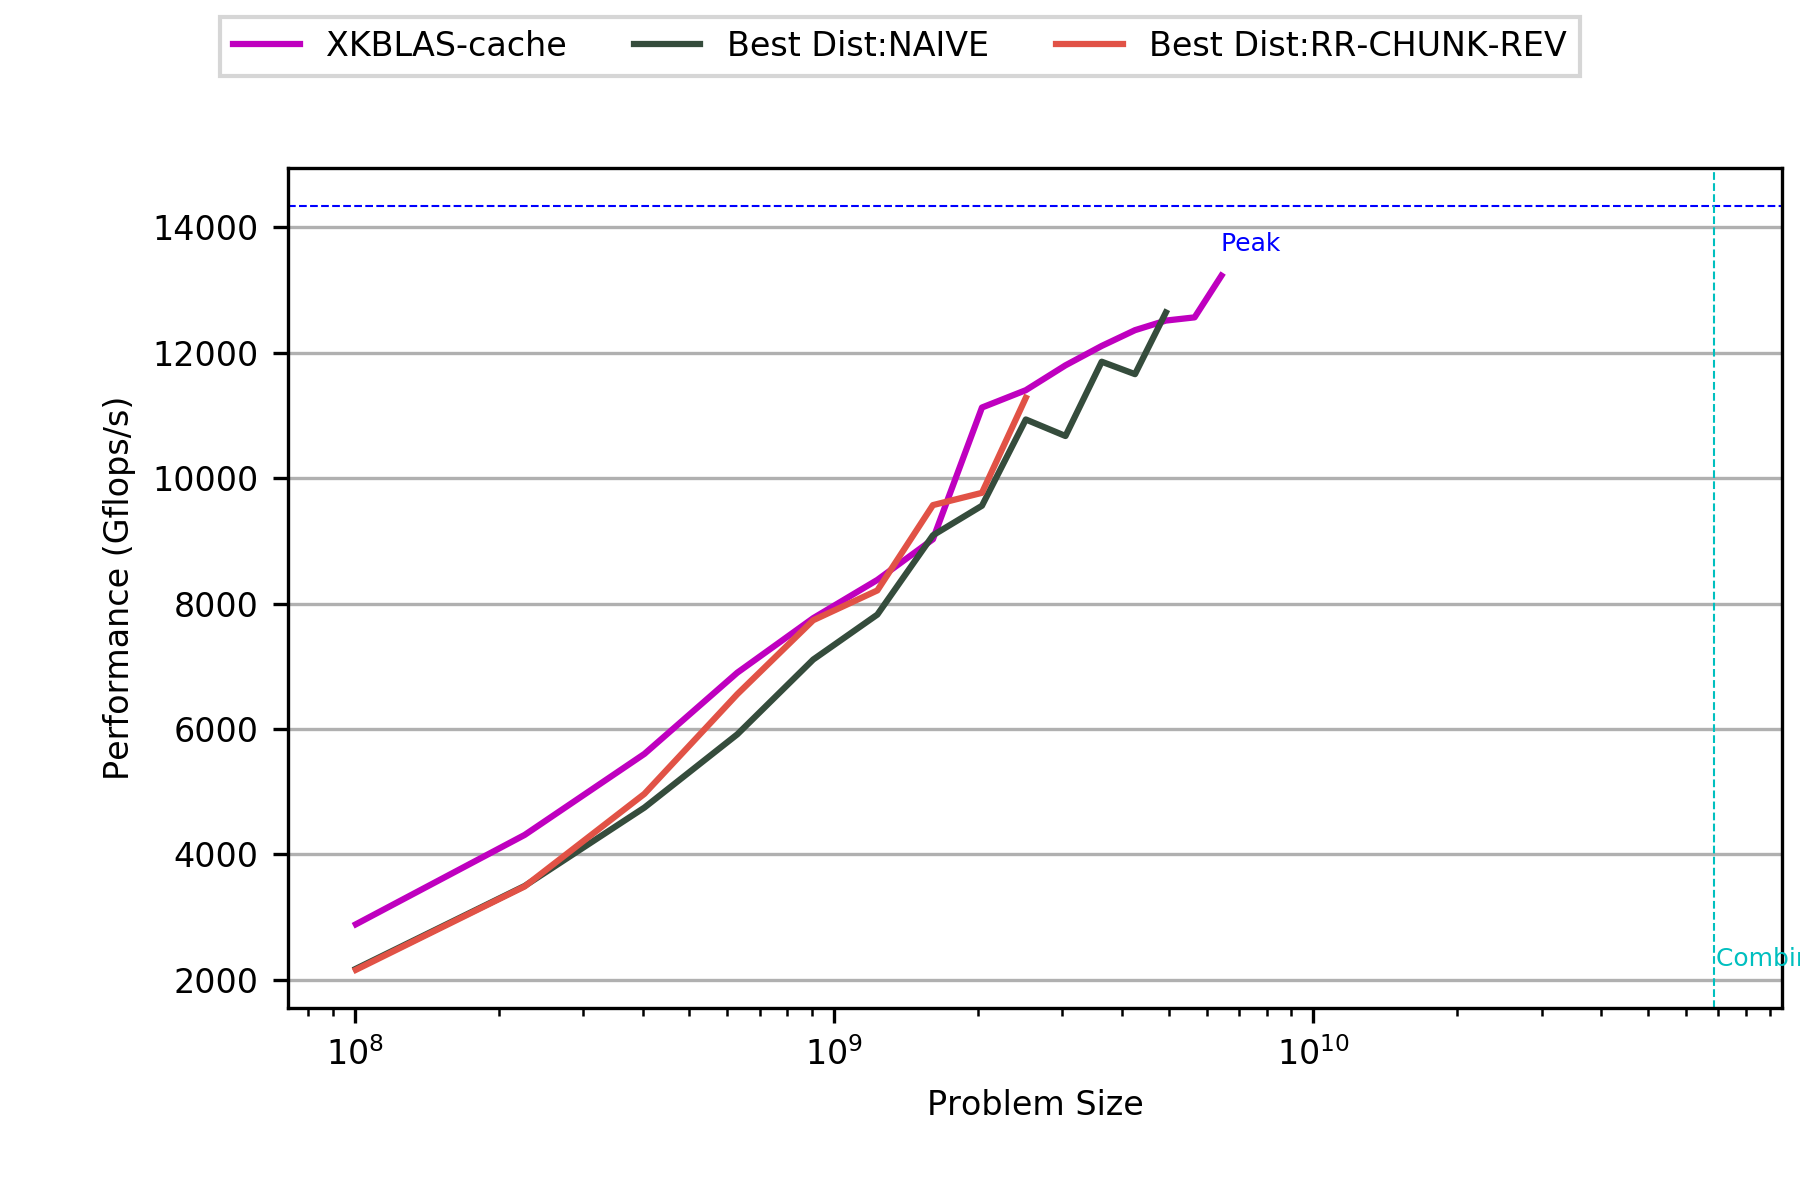
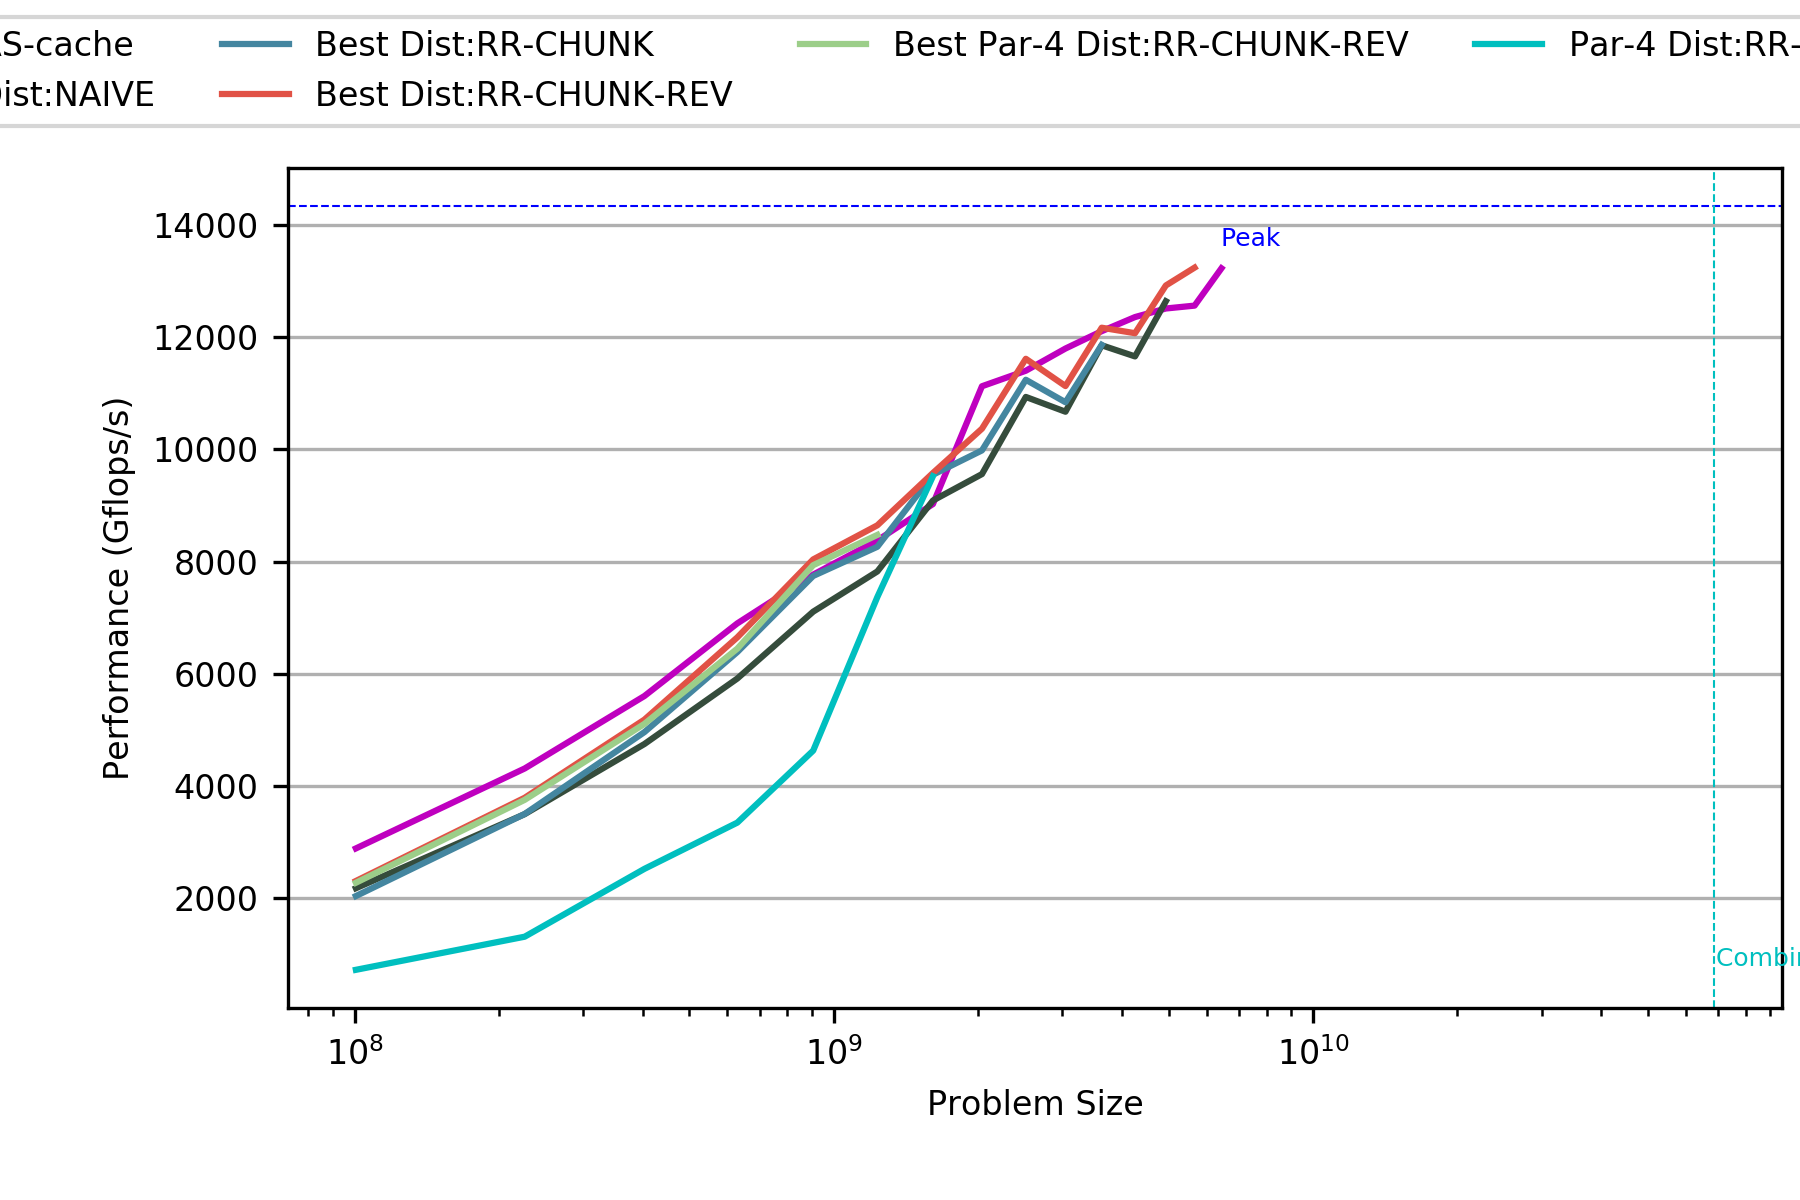
SPLIT-CHUNKS-ROBIN-REVERSE now reverses chunk of even devices.

diff --git a/Autotuning_runtime_experimental/src/Distributions.cpp b/Autotuning_runtime_experimental/src/Distributions.cpp
@@ -238,10 +238,12 @@ void CoCoDistributeSubkernelsRoundRobinChunkReverse(CoControl_p autotune_vals,
 #else
       error("CoCoDistributeSubkernelsRoundRobinChunkReverse: not implemented for undefined MULTIDEVICE_REDUCTION_ENABLE\n");
 #endif
-  int total_sk_ctr = 0;
-  short dev_sk_ctr_list[autotune_vals->dev_num] = {0};
+  int total_sk_ctr = 0, total_sk_prev = 0;
+  int dev_sk_ctr_list[autotune_vals->dev_num] = {0};
   while(total_sk_ctr<Subkernel_num){
+
     for(int devidx = 0; devidx < autotune_vals->dev_num; devidx++){
+      total_sk_prev = total_sk_ctr;
       if(total_sk_ctr == Subkernel_num) break;
       else if(dev_sk_ctr_list[devidx] == autotune_vals->Subkernels_per_dev[devidx]) continue;
       else{
@@ -258,10 +260,23 @@ void CoCoDistributeSubkernelsRoundRobinChunkReverse(CoControl_p autotune_vals,
           total_sk_ctr++;
         }
       }
+      if (devidx%2 == 0){
+        for(int local_ctr = dev_sk_ctr_list[devidx] - total_sk_ctr + total_sk_prev; local_ctr < dev_sk_ctr_list[devidx]; local_ctr++){
+          if (local_ctr < dev_sk_ctr_list[devidx] - local_ctr - 1){
+            int temp_sk_id = autotune_vals->Subkernel_dev_id_list[devidx][local_ctr];
+            autotune_vals->Subkernel_dev_id_list[devidx][local_ctr] =
+              autotune_vals->Subkernel_dev_id_list[devidx]
+                [dev_sk_ctr_list[devidx] - local_ctr - 1];
+            autotune_vals->Subkernel_dev_id_list[devidx]
+              [dev_sk_ctr_list[devidx] - local_ctr - 1] = temp_sk_id;
+          }
+          else break;
+        }
+      }
       if(total_sk_ctr == Subkernel_num) break;
     }
   }
-  for(int devidx = 0; devidx < autotune_vals->dev_num; devidx++){
+/*  for(int devidx = 0; devidx < autotune_vals->dev_num; devidx++){
     for(int local_ctr = 0; local_ctr < autotune_vals->Subkernels_per_dev[devidx]; local_ctr++){
       if (local_ctr < autotune_vals->Subkernels_per_dev[devidx] - local_ctr - 1){
         int temp_sk_id = autotune_vals->Subkernel_dev_id_list[devidx][local_ctr];
@@ -274,6 +289,7 @@ void CoCoDistributeSubkernelsRoundRobinChunkReverse(CoControl_p autotune_vals,
       else break;
     }
   }
+  */
 #ifdef PDEBUG
     lprintf(lvl, "CoCoDistributeSubkernelsRoundRobinChunkReverse:\nDistributing %d Subkernels to %d devices\n",
       Subkernel_num, autotune_vals->dev_num);

diff --git a/Autotuning_runtime_experimental/src/CoCoPeLiaModel.cpp b/Autotuning_runtime_experimental/src/CoCoPeLiaModel.cpp
@@ -60,7 +60,12 @@ short* CoCoPeLiaDeviceSelectBest(short used_devs, short avail_devs, short* avail
 
 void CoCoPeLiaNormalizeSplit(double* score_list, int list_len){
 	for (int i = 0; i < list_len; i++)
-		for (int j = i + 1; j < list_len; j++)
+		if(score_list[i] < NORMALIZE_NEAR_SPLIT_LIMIT){
+			for (int j = 0; j < list_len; j++)
+				if (i != j) score_list[j] = score_list[j]/(1 - score_list[i]);
+			score_list[i] = 0;
+		}
+		else for (int j = i + 1; j < list_len; j++)
 			if(abs(score_list[i] - score_list[j])/score_list[i] < NORMALIZE_NEAR_SPLIT_LIMIT)
 				score_list[j] = score_list[i] = (score_list[i] + score_list[j])/2;
 }

diff --git a/Benchmarking/CuCuBLAS/src/testing.cpp b/Benchmarking/CuCuBLAS/src/testing.cpp
@@ -29,6 +29,8 @@ char* CoCoImplementationPrint(){
 #else
 	sprintf(string_out, "ML");
 #endif
+#elif ENABLE_PARALLEL_BACKEND
+	sprintf(string_out, "PB-L%d", MAX_BACKEND_L);
 #elif MULTIDEVICE_REDUCTION_ENABLE
 	sprintf(string_out, "MR-BL%d", MAX_BUFFERING_L);
 #elif UNIHELPER_LOCKFREE_ENABLE
